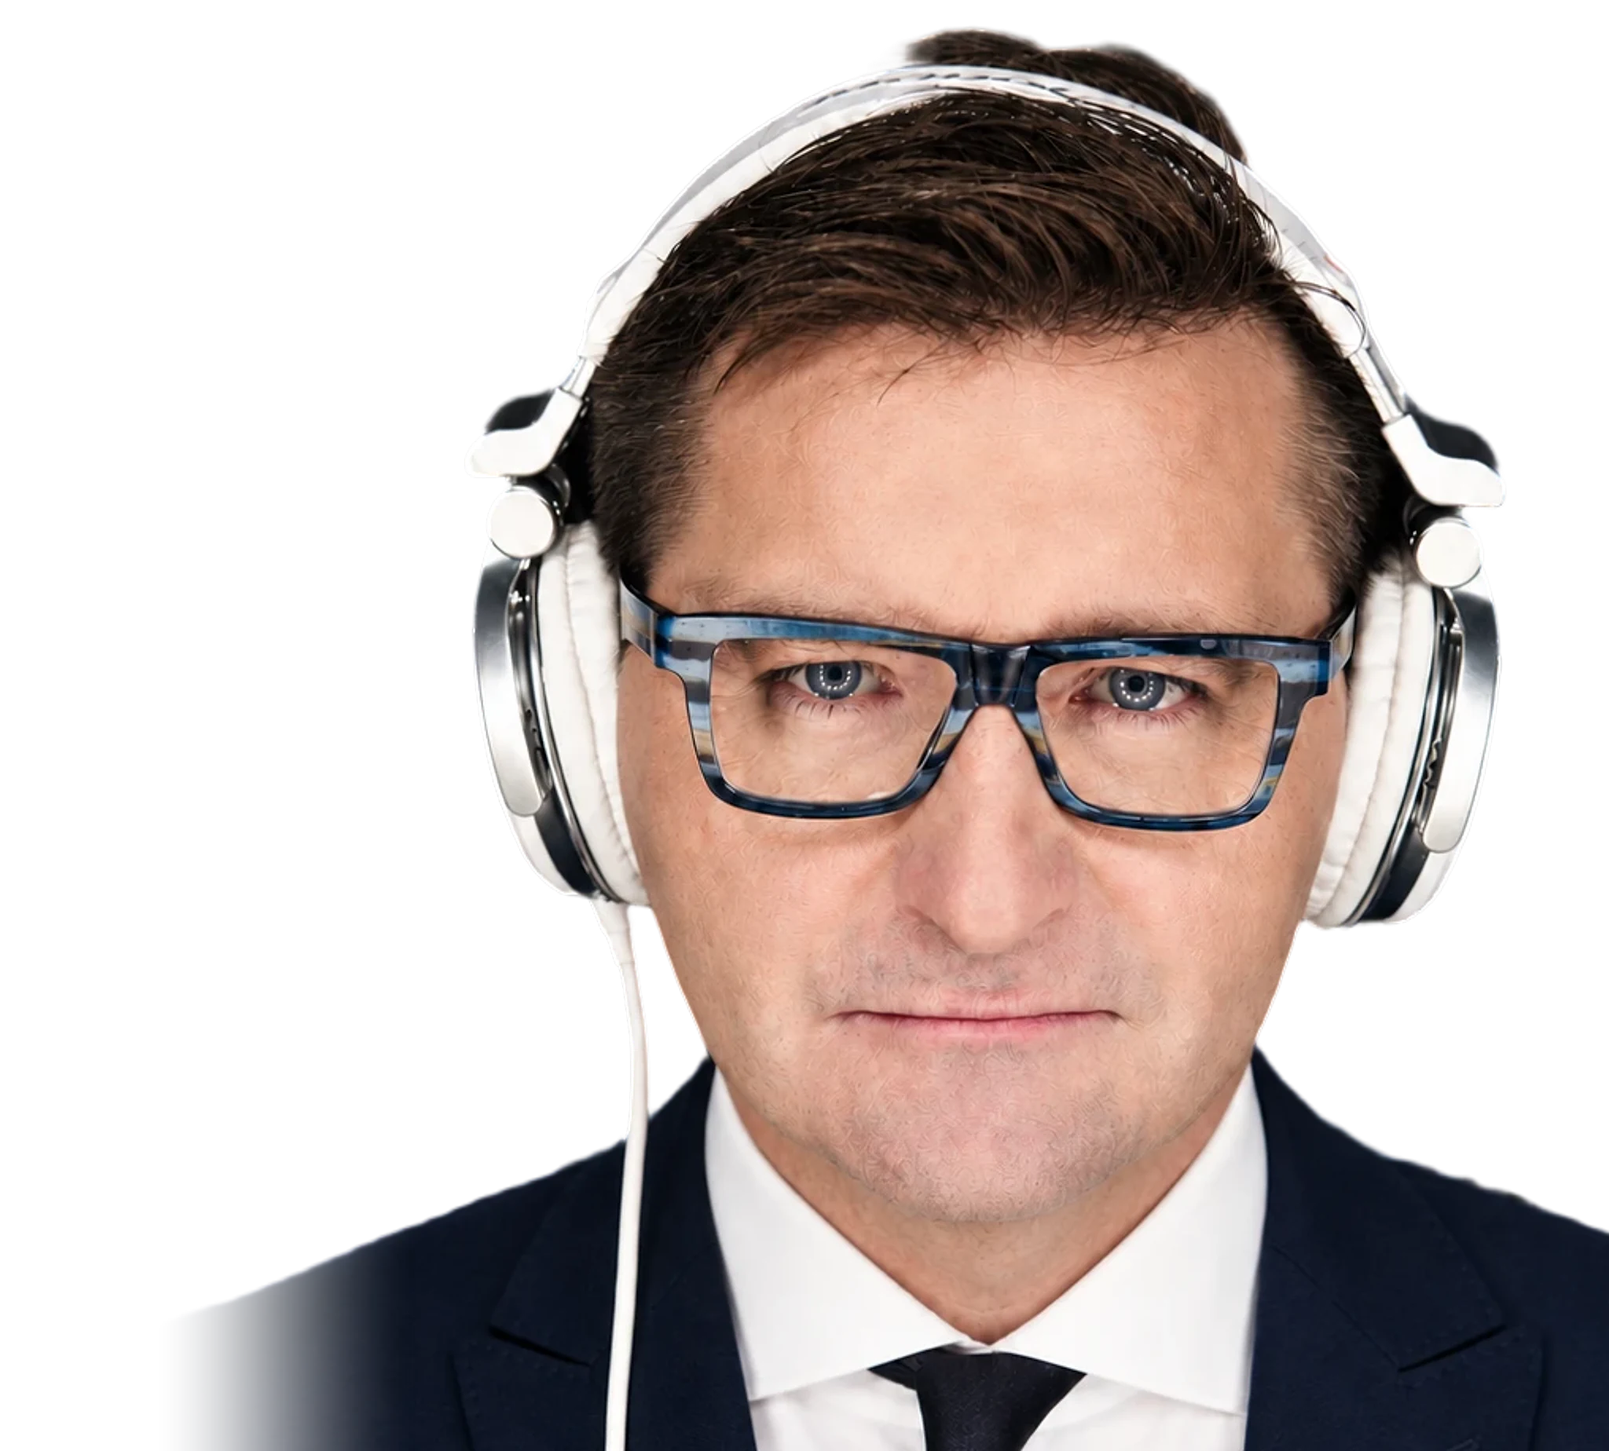
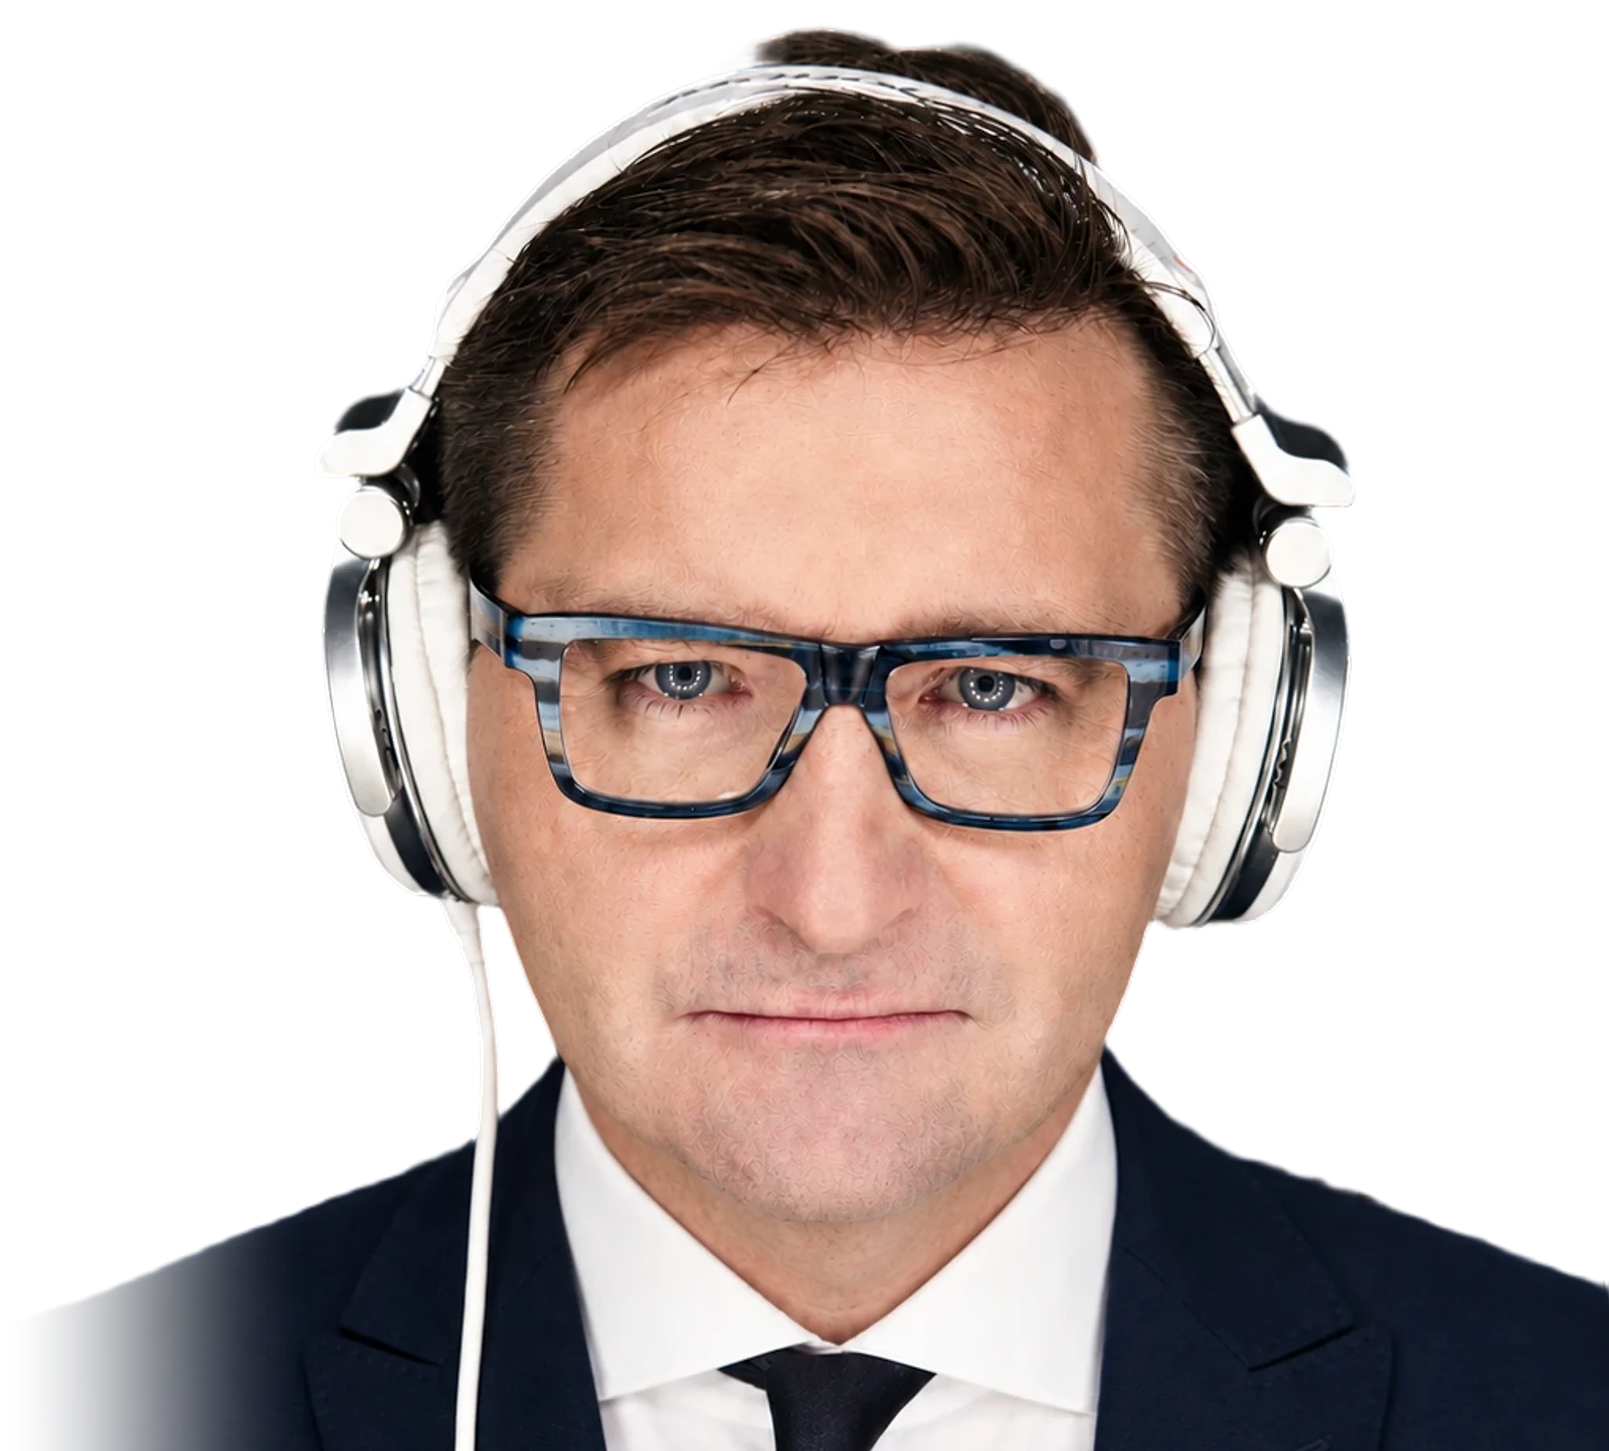
v1: hero z połową twarzy przy prawej krawędzi, kolumna tekstu obok twarzy na telefonie
- komputer i tablet: scena wysunięta za prawą krawędź (widać lewą połowę twarzy), Music / Artist zanika za muszlą słuchawek
- telefon: połowa twarzy po prawej, nagłówek i opis w kolumnie po lewej, nagłówek skaluje się płynnie do szerokości kolumny, bez mgły i maski u góry
- ramka tekstów obejmuje zawartość (hug content), nagłówek zawsze trzy linie lub pięć w kolumnie telefonu
- układ piętrowy tylko dla okien wyraźnie wyższych niż szerokich (max-aspect-ratio 9/10), okna zbliżone do kwadratu mają układ jak na komputerze

diff --git a/css/style.css b/css/style.css
@@ -402,15 +402,16 @@ h1[data-reveal].is-in, h2[data-reveal].is-in { filter: none; }
   --hero-text: #3A3A3A;
   --stage-h: min(84svh, 56vw);   /* wysokość postaci; napis w tle skaluje się razem z nią */
   --stage-w: calc(var(--stage-h) * 1024 / 924);
+  --stage-out: calc(var(--stage-w) * .485);   /* o tyle scena wystaje za prawą krawędź ekranu: oś twarzy (51,5% szerokości kadru) leży dokładnie na krawędzi, widać tylko lewą połowę twarzy */
   --aw: clamp(165px, 14vw, 225px);   /* szerokość strzałki przy przycisku */
   --title-fs: clamp(36px, 4.8vw, 96px);   /* wielkość nagłówka; opis pod nim jest jego proporcjonalną kopią */
   background: var(--gradient);
 }
 /* hero na całą szerokość: teksty zaczynają się przy lewej krawędzi (na wysokości logo), a nie w wąskim kontenerze */
 .hero__inner { position: relative; z-index: 2; max-width: none; }
-/* teksty kończą się przed twarzą: lewy policzek leży na 34,6% szerokości sceny */
+/* teksty kończą się przed słuchawkami: lewa muszla leży na 20% szerokości sceny, a scena wystaje za krawędź o --stage-out */
 .hero__copy {
-  max-width: min(900px, calc(100vw - var(--stage-w) * .654 - var(--gutter) - 48px));
+  max-width: min(900px, calc(100vw - var(--stage-w) * .315 - var(--gutter) - 48px));
 }
 .hero__title {
   font-family: var(--f-head); font-weight: 800; color: var(--ink);
@@ -486,18 +487,18 @@ body.is-loaded .arrow-head { animation: drawHead .55s cubic-bezier(.45, 0, .25, 
 .hero__contact a { border-bottom: 1px solid transparent; transition: border-color .3s; }
 .hero__contact a:hover { border-color: currentColor; }
 
-/* Scena: dosunięta do prawej krawędzi ekranu i do dołu sekcji, więc ucięte ramię i tułów
-   kończą się na krawędziach okna. Proporcje = wycinek 1024x924. */
+/* Scena: dosunięta do dołu sekcji i przesunięta w prawo tak, że połowa twarzy chowa się za prawą krawędzią ekranu
+   (sekcja ma overflow: hidden). Proporcje = wycinek 1024x924. */
 .hero__stage {
-  position: absolute; right: 0; bottom: 0; z-index: 1;
+  position: absolute; right: calc(var(--stage-out) * -1); bottom: 0; z-index: 1;
   height: var(--stage-h);
   aspect-ratio: 1024 / 924;
   pointer-events: none;
 }
-/* Napis w tle: dwie linie, koniec każdej chowa się za lewym policzkiem */
+/* Napis w tle: dwie linie, z lewej wyłania się z tła (maska), koniec każdej chowa się za lewą muszlą słuchawek */
 .hero__bg-word {
   position: absolute; z-index: 0;
-  right: 61%; top: 7%;
+  right: 76%; top: 7%;   /* prawa krawędź słowa na 24% szerokości kadru, czyli 4% za lewą muszlą słuchawek (20%) */
   margin: 0;
   font-family: var(--f-display); font-weight: 500;
   font-size: calc(var(--stage-h) * .36);
@@ -936,6 +937,11 @@ body.is-loaded .hero__portrait img { opacity: 1; transform: none; }
 /* =========================================================
    RESPONSYWNOŚĆ
    ========================================================= */
+@media (min-width: 768px) {
+  /* ramka tekstów obejmuje tylko swoją zawartość (hug content), nie rozciąga się nad zdjęciem */
+  .hero__copy { width: fit-content; }
+}
+
 @media (min-width: 1200px) {
   .elegant-arrow { display: block; }
   /* przycisk niżej, żeby strzałka (jej górny łuk sięga .414 swojej szerokości nad środek przycisku) zaczynała się pod opisem, a nie w nim */
@@ -1027,54 +1033,47 @@ body.is-loaded .hero__portrait img { opacity: 1; transform: none; }
 
 /* Hero w pionie (tablet, telefon, wąskie okno): najpierw teksty, pod nimi scena
    dosunięta do prawej krawędzi i do dołu sekcji. */
-@media (orientation: portrait) and (max-width: 1199px), (max-width: 699px) and (min-height: 521px) {
+@media (max-aspect-ratio: 9/10) and (max-width: 1199px), (max-width: 699px) and (min-height: 521px) {
   .hero { justify-content: flex-start; padding-bottom: 0; --stage-w: min(100vw, 680px); --title-fs: min(8vw, 88px); }
   .hero__inner { margin-bottom: clamp(16px, 4vw, 32px); }
-  .hero__copy { max-width: 700px; }
+  .hero__copy { max-width: none; }   /* ramka obejmuje zawartość (hug content): nagłówek zawsze trzy linie, bez zawijania na szerokich oknach w pionie */
   .hero__stage {
     position: relative; right: auto; bottom: auto;
     align-self: flex-end;
     width: var(--stage-w); height: auto;
-    margin-top: auto;
+    margin-top: auto; margin-right: calc(var(--stage-out) * -1);
   }
-  /* tablet: napis po lewej, końcówki chowają się za policzkiem jak na komputerze */
-  .hero__bg-word { right: 62%; font-size: calc(var(--stage-w) * .18); }
+  /* tablet: napis jak na komputerze, końcówki chowają się za muszlą */
+  .hero__bg-word { right: 76%; font-size: calc(var(--stage-w) * .18); }
 }
 
-/* Telefon: twarz Błażeja jest tłem tekstu, jak na okładce magazynu. Zdjęcie wypełnia ekran od nagłówka do dołu.
-   U góry zdjęcie łagodnie przechodzi w szare tło hero (tytuł i opis leżą na czystym tle, głowa wyłania się spod nich),
-   u dołu ciemny gradient na marynarce niesie jasny przycisk i jasny kontakt, twarz w środku zostaje czysta.
-   Bez napisu „Music / Artist”. */
+/* Telefon: połowa twarzy Błażeja przy prawej krawędzi ekranu, na całą wysokość od nagłówka strony do dołu (głowa w całości, bez maski u góry).
+   Po lewej stronie twarzy kolumna tekstu: nagłówek i opis, wyrównane do lewej. Szerokość kolumny to ekran minus zasłonięta
+   twarz, a nagłówek skaluje się płynnie razem z nią (--title-fs), więc nigdy nie zachodzi na zdjęcie.
+   U dołu ciemny gradient na marynarce niesie jasny przycisk i jasny kontakt. Bez napisu „Music / Artist”. */
 @media (orientation: portrait) and (max-width: 767px), (max-width: 699px) and (min-height: 521px) {
   .hero {
-    /* dół opisu: nagłówek strony + odstęp sekcji + trzy linie tytułu (9,8vw) + trzy linie opisu */
-    --veil-top: calc(var(--header-h) + 7vh + 31vw + 90px);
-    /* wysokość zdjęcia dobrana tak, żeby brwi (34% kadru) wypadły tuż pod końcem mgły,
-       a zdjęcie sięgało do dołu ekranu: 0,66 wysokości kadru = ekran minus koniec mgły */
     --hero-h: 100svh;
-    --title-fs: 9.8vw;
-    --stage-h: min(calc((var(--hero-h) - var(--veil-top) - 64px) / .66), calc(var(--hero-h) - var(--header-h) - 40px));
+    /* wysokość zdjęcia: od nagłówka strony do dołu ekranu, ale nie więcej niż 175% szerokości ekranu (żeby zostało miejsce na tekst) */
+    --stage-h: min(calc(var(--hero-h) - var(--header-h) - 40px), 175vw);
+    /* kolumna tekstu: od lewego marginesu do lewej muszli słuchawek (20% kadru telefonu 1017:1162, którego oś twarzy leży na prawej krawędzi) */
+    --col-w: calc(100vw - var(--gutter) - var(--stage-h) * 1017 / 1162 * .315 - 14px);
+    /* najszersze słowo nagłówka (HISTORIE) ma ok. 4,9 em: nagłówek jest tak duży, żeby się w kolumnie mieścił, najwyżej 9,8vw */
+    --title-fs: min(9.8vw, calc(var(--col-w) / 4.95));
     min-height: 100vh; min-height: var(--hero-h);
     padding-bottom: calc(24px + env(safe-area-inset-bottom));
   }
-  .hero::before, .hero::after {
-    content: ""; position: absolute; inset: 0; z-index: 2; pointer-events: none;
-  }
-  /* jasna mgła w kolorze tła hero pod tytułem i opisem */
-  .hero::before {
-    background: var(--gradient);
-    -webkit-mask-image: linear-gradient(to bottom, #000 0, rgba(0, 0, 0, .9) var(--veil-top), transparent calc(var(--veil-top) + 64px));
-    mask-image: linear-gradient(to bottom, #000 0, rgba(0, 0, 0, .9) var(--veil-top), transparent calc(var(--veil-top) + 64px));
-  }
+  /* bez jasnej mgły pod tytułem: zdjęcie samo zaczyna się pod tytułem (maska na .hero__portrait), nic nie leży za tekstem */
   /* ciemny gradient na marynarce pod przyciskiem i kontaktem */
   .hero::after {
+    content: ""; position: absolute; inset: 0; z-index: 2; pointer-events: none;
     background: linear-gradient(to top, rgba(11, 11, 11, .9) 0, rgba(11, 11, 11, .6) 120px, rgba(11, 11, 11, 0) 240px);
   }
   .hero__inner { z-index: 3; flex: 1; display: flex; flex-direction: column; margin-bottom: 0; }
-  .hero__copy { flex: 1; display: flex; flex-direction: column; }
-  /* opis na środku nagłówka (contain: inline-size jest w regule bazowej, szerokość ramki wyznacza tylko nagłówek);
-     na telefonie 36% wielkości nagłówka, nie mniej niż 12 px */
-  .hero__lead { margin-bottom: 32px; margin-inline: auto; text-align: center; font-size: max(12px, calc(var(--title-fs) * .36)); }
+  .hero__copy { flex: 1; display: flex; flex-direction: column; max-width: none; }
+  /* nagłówek i opis w jednej kolumnie po lewej stronie twarzy (grupa ma szerokość kolumny, tytuł zawija się w niej na słowach) */
+  .hero__head { width: var(--col-w); max-width: none; }
+  .hero__lead { margin-top: clamp(14px, 2.4vh, 22px); text-align: left; font-size: max(10.5px, calc(var(--title-fs) * .36)); }
   .hero__cta { margin-top: auto; }
   .hero .btn--dark { background: var(--cream); color: var(--ink); border-color: var(--cream); font-size: 12.5px; letter-spacing: .04em; }
   .hero .btn--dark::before { background: var(--ink); }
@@ -1083,15 +1082,15 @@ body.is-loaded .hero__portrait img { opacity: 1; transform: none; }
   .hero__stage {
     position: absolute; top: auto; right: auto; bottom: 0;
     height: var(--stage-h); width: calc(var(--stage-h) * 1017 / 1162);
-    left: calc(50% - var(--stage-h) * 1017 / 1162 * .52);   /* kadr telefonu 1017:1162, oś twarzy na 52% szerokości */
+    /* kadr telefonu 1017:1162, oś twarzy na 51,5% jego szerokości leży na prawej krawędzi ekranu: widać lewą połowę twarzy */
+    left: calc(100% - var(--stage-h) * 1017 / 1162 * .515);
     margin: 0;
   }
   .hero__bg-word { display: none; }
-  /* na szerszych ekranach w pionie (do 767 px) kadr jest węższy od okna: boki marynarki wygaszone, bez ostrej pionowej krawędzi
-     (na zwykłym telefonie te pasy leżą poza ekranem) */
+  /* lewy brzeg kadru (ucięta krawędzią zdjęcia marynarka) wygaszany, bez ostrej pionowej krawędzi; głowa jest widoczna w całości */
   .hero__portrait {
-    -webkit-mask-image: linear-gradient(90deg, transparent 0, #000 14%, #000 86%, transparent 100%);
-    mask-image: linear-gradient(90deg, transparent 0, #000 14%, #000 86%, transparent 100%);
+    -webkit-mask-image: linear-gradient(90deg, transparent 0, #000 22%, #000 100%);
+    mask-image: linear-gradient(90deg, transparent 0, #000 22%, #000 100%);
   }
 }
 

diff --git a/index.html b/index.html
@@ -107,7 +107,7 @@
                     sizes="150vw" width="1017" height="1162">
             <img src="assets/hero-cutout-1024.webp"
                  srcset="assets/hero-cutout-1024.webp 1024w, assets/hero-cutout-2048.webp 2048w"
-                 sizes="(orientation: portrait) and (max-width: 1199px) 680px, 62vw"
+                 sizes="(max-aspect-ratio: 9/10) and (max-width: 1199px) 680px, 62vw"
                  width="1024" height="924"
                  alt="Błażej Biurkowski w granatowym garniturze i białych słuchawkach DJ-skich"
                  fetchpriority="high" decoding="async">

diff --git a/README.md b/README.md
@@ -14,7 +14,7 @@ Statyczna strona (HTML + CSS + JS, bez frameworków), przygotowana do przeniesie
 
 ## Przeniesienie na WordPress
 - Każda `<section>` = jedna sekcja/kontener w Gutenbergu lub Elementorze. Teksty są zwykłymi nagłówkami i akapitami (bez dzielenia na litery, bez tekstu na grafikach).
-- Hero: nagłówek i opis siedzą w grupie `.hero__head` (w WordPressie: blok Grupa z nagłówkiem i akapitem). Linie nagłówka są łamane `<br>` (w edytorze Shift+Enter), więc ramka grupy ma szerokość najdłuższej linii; na telefonie opis stoi dokładnie na jej środku, na komputerze i tablecie jest wyrównany do lewej. Duży napis w tle (`.hero__bg-word`, dekoracyjny, `aria-hidden`) z lewej wyłania się z tła (maska gradientowa), a zdjęcie postaci z przezroczystym tłem (WebP z kanałem alfa) w `.hero__stage`. Scena ma w CSS proporcje wycinka 1024:924 (`aspect-ratio`); przy podmianie zdjęcia na kadr o innych proporcjach trzeba zmienić `aspect-ratio` i położenie napisu. Obecne zdjęcie (od 4.10.2026: portret w białych słuchawkach na głowie, poprawiony w GPT Image 2) ma wycinek `assets/source/hero-cutout-3.png` (zdjęcie: `hero-photo-3.png`); poprzedni wycinek zostaje w `assets/source/hero-cutout.png`. Na komputerze i tablecie kadr to `hero-cutout-1024/2048.webp` (postać przesunięta w prawo, lewy brzeg marynarki wygaszony), na telefonie wyższy kadr 1017:1162 (`hero-cutout-m-1017/2034.webp`) wybierany elementem `<picture><source media=…>` z tym samym warunkiem co układ telefonu w CSS. Przy podmianie zdjęcia trzeba ustawić kadr tak, żeby na telefonie brwi wypadły na ok. 34% wysokości, a broda na ok. 67%.
+- Hero: nagłówek i opis siedzą w grupie `.hero__head` (w WordPressie: blok Grupa z nagłówkiem i akapitem). Linie nagłówka są łamane `<br>` (w edytorze Shift+Enter), więc ramka grupy ma szerokość najdłuższej linii; na telefonie opis stoi dokładnie na jej środku, na komputerze i tablecie jest wyrównany do lewej. Duży napis w tle (`.hero__bg-word`, dekoracyjny, `aria-hidden`) z lewej wyłania się z tła (maska gradientowa), a zdjęcie postaci z przezroczystym tłem (WebP z kanałem alfa) w `.hero__stage`. Scena ma w CSS proporcje wycinka 1024:924 (`aspect-ratio`); przy podmianie zdjęcia na kadr o innych proporcjach trzeba zmienić `aspect-ratio` i położenie napisu. Obecne zdjęcie (od 4.10.2026: portret w białych słuchawkach na głowie, poprawiony w GPT Image 2) ma wycinek `assets/source/hero-cutout-3.png` (zdjęcie: `hero-photo-3.png`); poprzedni wycinek zostaje w `assets/source/hero-cutout.png`. Na komputerze i tablecie kadr to `hero-cutout-1024/2048.webp` (postać przesunięta w prawo, lewy brzeg marynarki wygaszony), na telefonie wyższy kadr 1017:1162 (`hero-cutout-m-1017/2034.webp`) wybierany elementem `<picture><source media=…>` z tym samym warunkiem co układ telefonu w CSS. Na komputerze i tablecie scena wystaje za prawą krawędź ekranu o `--stage-out` (48,5% jej szerokości), więc oś twarzy leży dokładnie na krawędzi i widać tylko lewą połowę twarzy (sekcja ma `overflow: hidden`; zdjęcie samo jest całe, nic nie jest w nim ucięte). Napis „Music / Artist” z lewej wyłania się z tła (maska), a jego końcówki chowają się za lewą muszlą słuchawek (`right: 76%`; muszla zaczyna się na 20% szerokości kadru); ramka tekstów (`.hero__copy`) ma od 768 px szerokość swojej zawartości (`fit-content`, bez górnego limitu), więc nagłówek zawsze ma trzy linie (łamane `<br>`), a ramka nie zachodzi nad zdjęcie. Układ „teksty u góry, scena pod nimi” (tablet) włącza się tylko dla okien wyraźnie wyższych niż szerokich (`max-aspect-ratio: 9/10`, do 1199 px szerokości); okna zbliżone do kwadratu mają układ jak na komputerze, żeby twarz była na pierwszym ekranie. Na telefonie napisu nie ma. Na telefonie twarz też jest przesunięta na prawą stronę i zasłonięta w połowie (oś twarzy na prawej krawędzi), na całą wysokość od nagłówka strony do dołu; lewy brzeg kadru jest wygaszany maską. Nagłówek i opis stoją w jednej kolumnie po lewej stronie twarzy, wyrównane do lewej: szerokość kolumny (`--col-w`) to ekran minus zasłonięta twarz, a nagłówek skaluje się płynnie (`--title-fs` = `--col-w` / 4,95, najwyżej 9,8vw; „HISTORIE” to najszersze słowo), więc zawija się na słowach w pięć linii i nigdy nie zachodzi na zdjęcie. Opis ma 36% wielkości nagłówka. Nie ma żadnej mgły ani maski u góry zdjęcia, głowa jest widoczna w całości. W WordPressie wystarczy zwykła grupa z nagłówkiem i akapitem, szerokość kolumny ustawia CSS w zapytaniu dla telefonu. Przy podmianie zdjęcia trzeba ustawić kadr tak, żeby na telefonie brwi wypadły na ok. 34% wysokości, a broda na ok. 67%.
 - O mnie: nagłówek „O mnie” i cała wypowiedź Błażeja jako jeden `<blockquote>` z akapitami (w WordPressie: blok Cytat). Obok zdjęcie Błażeja na hokerze ze słuchawkami w dłoni, z wyciętym tłem (`assets/about-portrait.webp`, oryginał wycinka: `assets/source/about-seated-cutout.png`), w tle miękkie wstęgi `assets/ribbons.webp` (CSS, `.about::before`, generator `.claude/tools/ribbons.mjs`).
 - Styl: po lewej karuzela 3D (`.values__carousel[data-carousel]`, zwykła lista `<ul class="carousel__track">` ze zdjęciami `<img>`; w WordPressie: blok Galeria z tymi klasami). Zdjęcia są ścianami obracającego się graniastosłupa: środkowe stoi przodem, dwa sąsiednie odchodzą w głąb pod kątem i są przygaszone, reszta jest po niewidocznej stronie; przy obrocie zdjęcie zwęża się i znika za krawędzią następnego. Nie ma strzałek: zdjęcia przeciąga się myszą lub palcem, działają też strzałki na klawiaturze i klik w boczne zdjęcie, a co 5,2 s karuzela obraca się sama (po dotknięciu wraca do tego po 7 s). Niedociągnięte zdjęcie samo płynnie ustawia się na środku. Na komputerze wysokość środkowego zdjęcia to 86% wysokości listy tekstów obok (stała `SIZE`), najwyżej tyle, ile mieści ekran; karuzela może wyjść w lewo poza kolumnę, do toru paska nut. Zdjęcia powinny być pionowe 3:4 (tu 7 plików `assets/slides/`, 1080x1440 WebP); gdy brakuje szerokości, kafelek jest trochę smuklejszy i boki zdjęcia zostają poza kadrem. Kąt ścian, przygaszenie, wielkość i tempo ustawia się stałymi na początku bloku „KARUZELA 3D” w `main.js`.
 - W roli Eksperta (dawniej „Media o mnie”; kotwica `#media` i klasy `media__*` bez zmian): tytuł jest długi, więc na komputerze i tablecie jego wielkość dopasowuje się do szerokości treści i zawsze mieści się w jednej linii; na telefonie łamie się na „W ROLI / EKSPERTA” (twarda spacja między „W” i „roli”). Przy zmianie tytułu na inny trzeba poprawić dzielnik w regule `.media .sec-head__title` (szerokość napisu w em). Ściana kadrów to zwykłe `<figure>` z atrybutem `style="--ar: szerokość/wysokość"` (proporcje kadru). Rzędy układają się same i wypełniają szerokość bez przycinania zdjęć; kadry są zawsze w kolorze (po najechaniu lekko się przybliżają). Znak stacji w rogu to opcjonalny `<span class="wall__badge">` z logo. Logotypy stacji i redakcji mają jedno źródło: pasek `.marquee` na dole sekcji. Na telefonie i tablecie w pionie (poniżej 1024 px) pasek się przesuwa jak dotąd; na komputerze JS kopiuje z niego pierwszych 8 logotypów do listy `.media__logos` i rozkłada je po obu stronach ściany kadrów (lekko obrócone, wolno unoszące się), a pasek znika. Żeby logotypy miały miejsce, na ekranach węższych niż ok. 1650 px ściana kadrów jest trochę węższa. Położenie każdego logotypu to reguły `.media__logo:nth-child(n)` w CSS (kolejność jak w pasku).
